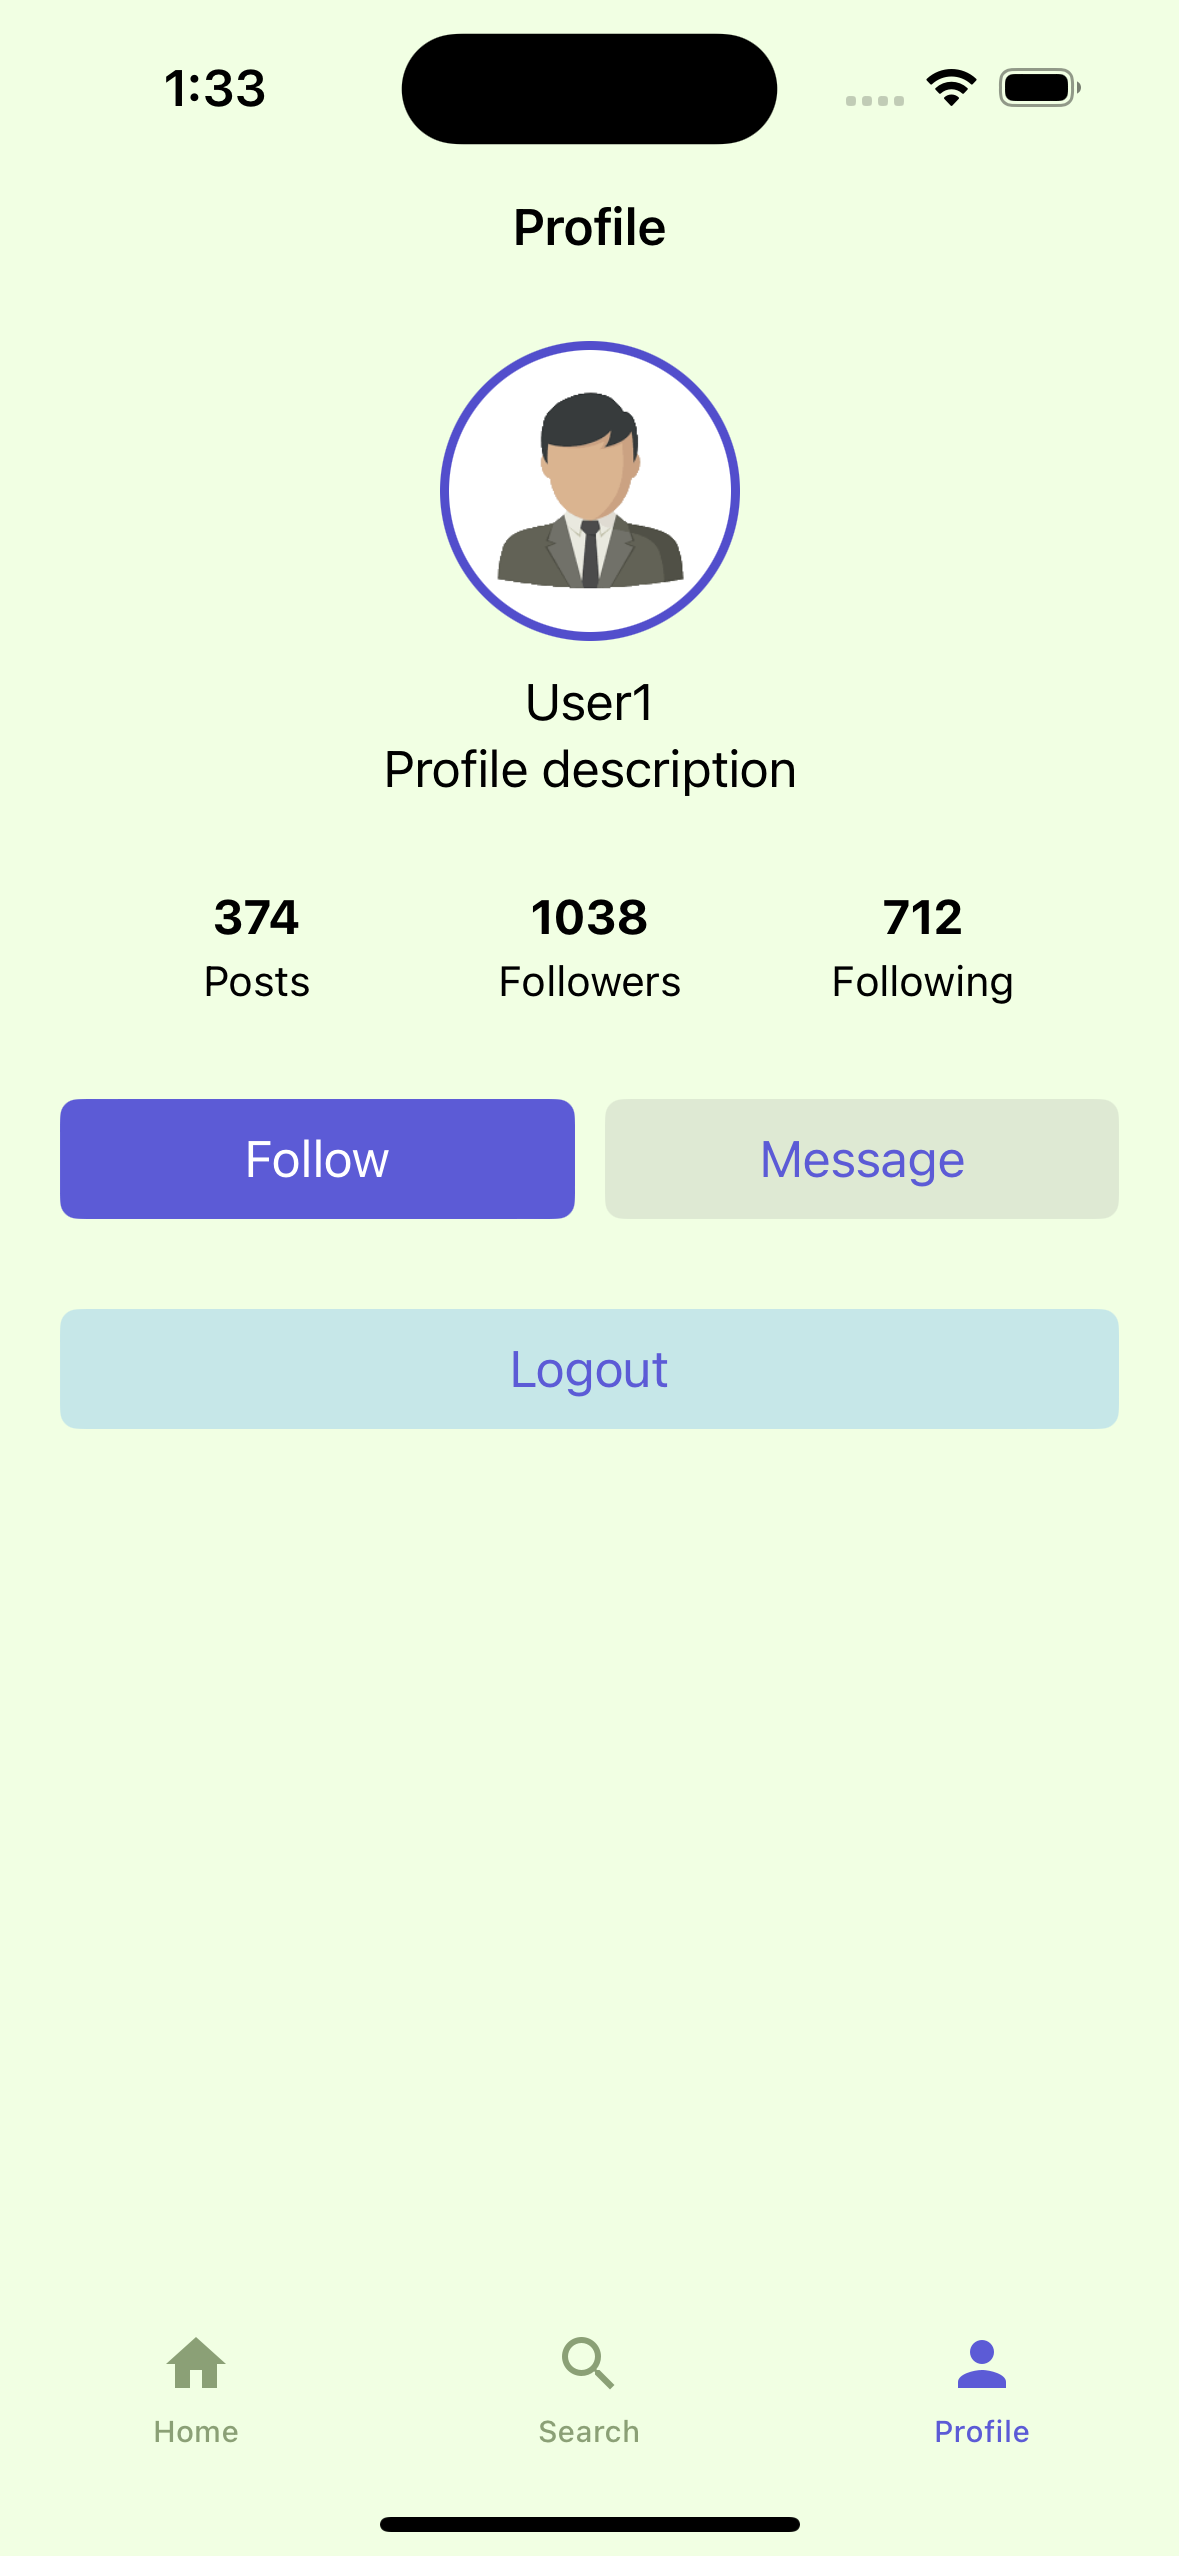
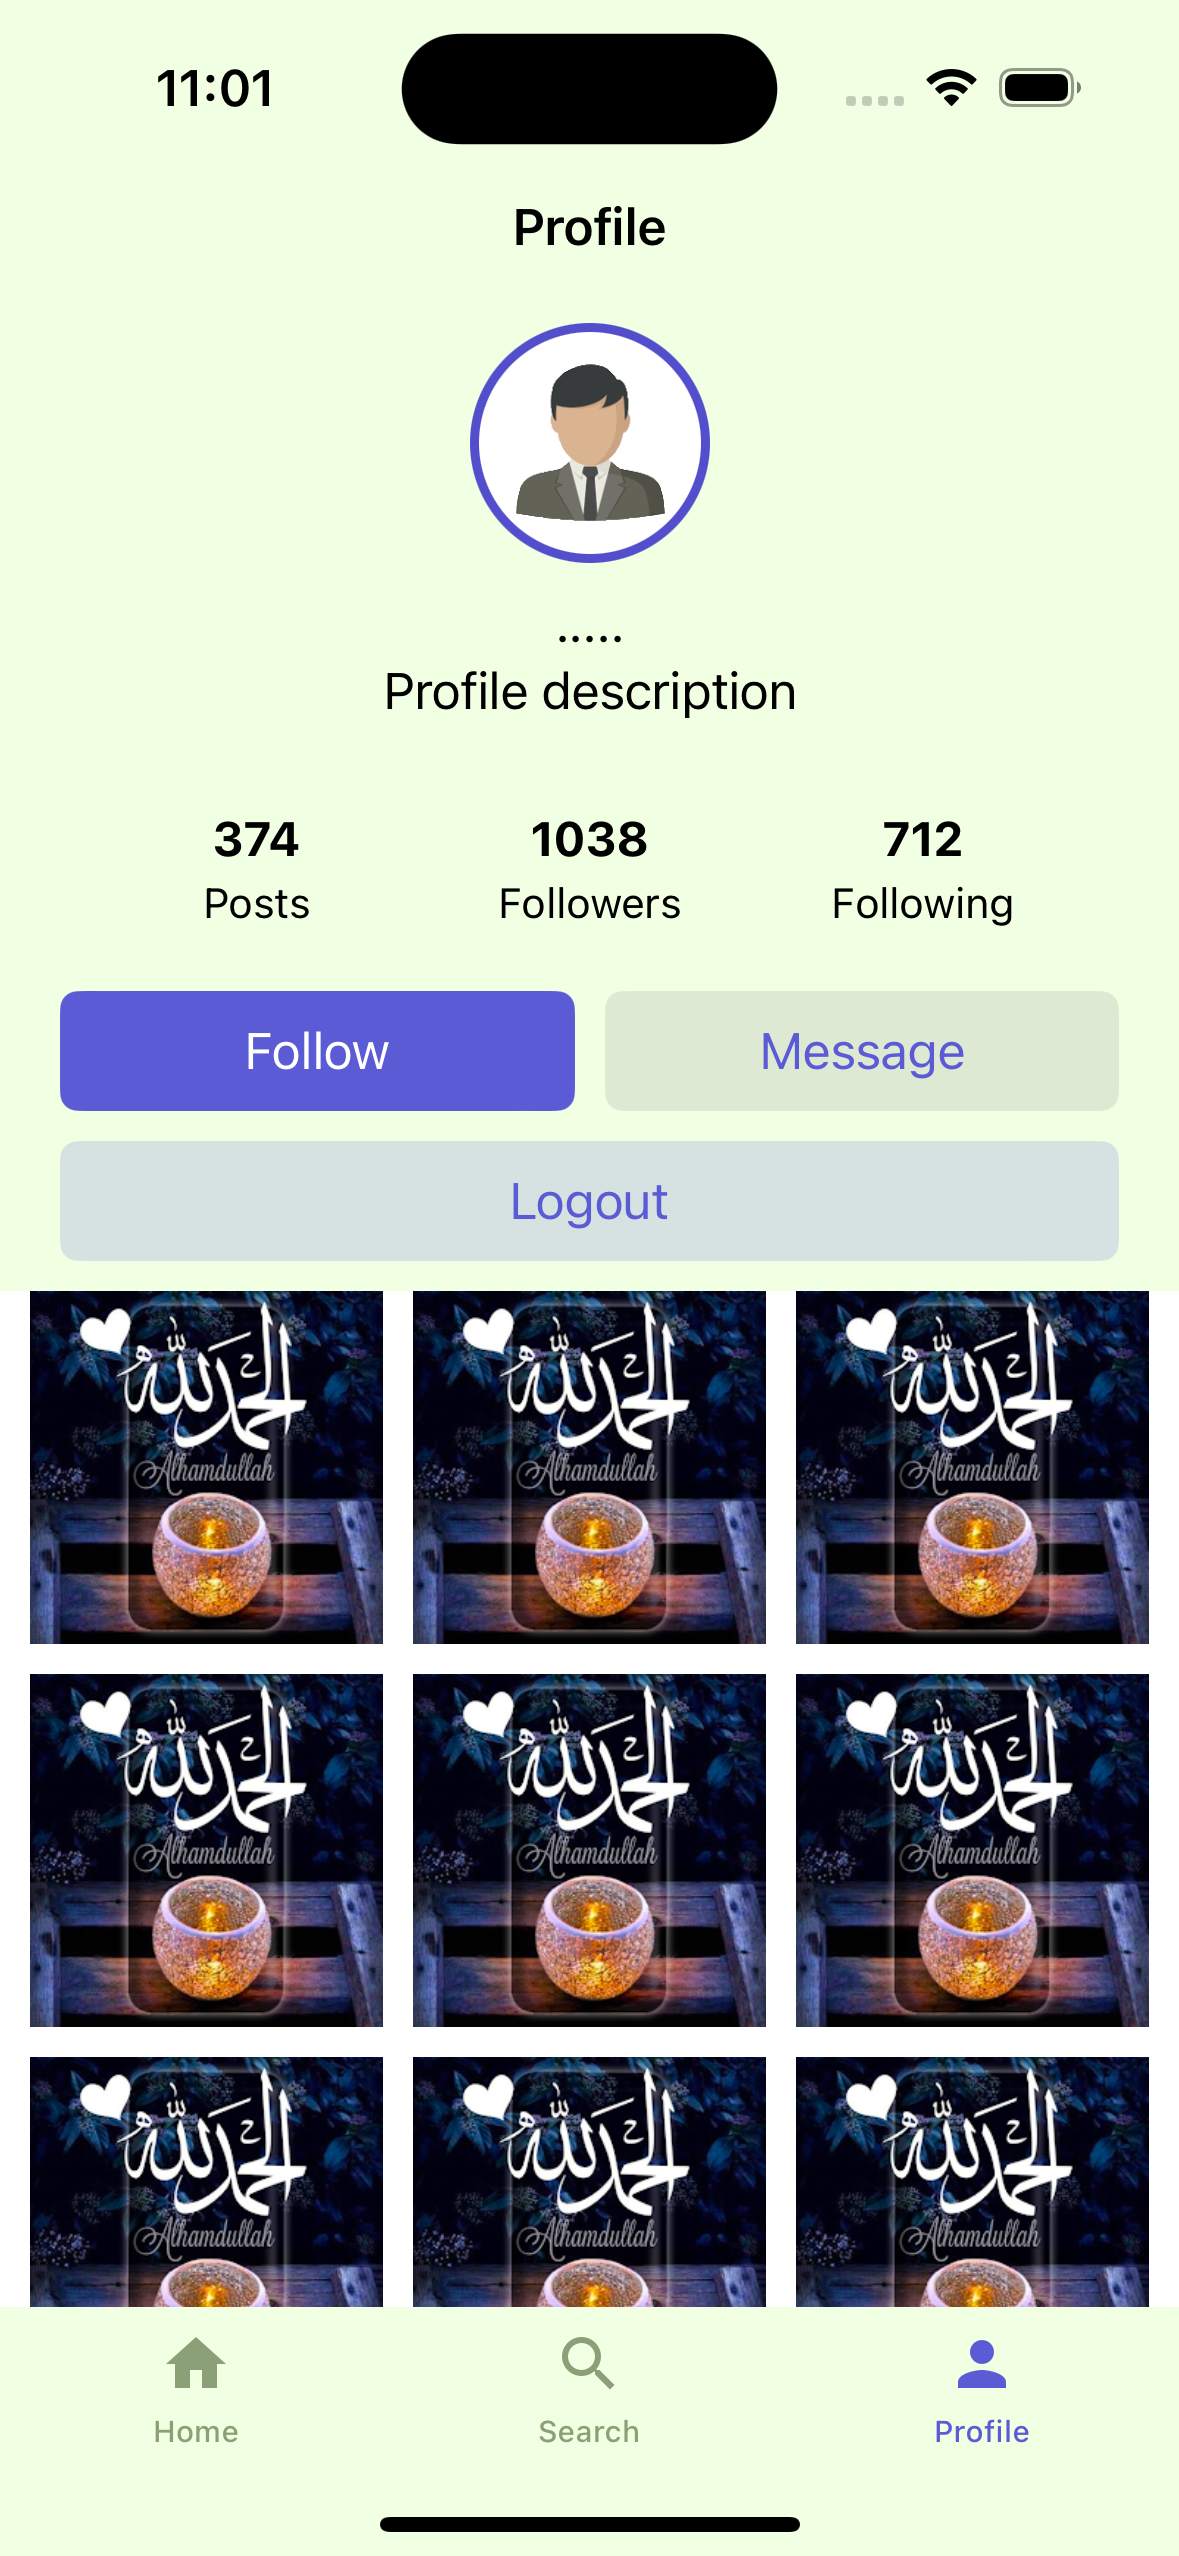
Add CollectionView in Profile and Add PostDetails screen

diff --git a/learnGram/ViewControllers/Extension/ProfileViewControllerExtension.swift b/learnGram/ViewControllers/Extension/ProfileViewControllerExtension.swift
@@ -1,0 +1,52 @@
+//
+//  ProfileViewControllerExtension.swift
+//  learnGram
+//
+//  Created by Yousuf on 4/6/23.
+//
+
+import Foundation
+import UIKit
+
+
+extension ProfileViewController : UICollectionViewDataSource {
+    
+    func collectionView(_ collectionView: UICollectionView, numberOfItemsInSection section: Int) -> Int {
+        return viewModel.imageCollectionItem
+    }
+    
+    func collectionView(_ collectionView: UICollectionView, cellForItemAt indexPath: IndexPath) -> UICollectionViewCell {
+     
+        // This is not working as forceing me to use dequeueReusableCell
+        //let cell = Bundle.main.loadNibNamed(ImageCell.identifierName, owner: self)?.first as! ImageCell
+        //return cell
+     
+        let cell = collectionView.dequeueReusableCell(withReuseIdentifier: ImageCell.identifierName, for: indexPath) as! ImageCell
+        return cell
+    }
+    
+    
+}
+
+
+
+extension ProfileViewController : UICollectionViewDelegate {
+    
+    func collectionView(_ collectionView: UICollectionView, didSelectItemAt indexPath: IndexPath) {
+        print("Clciked at \(indexPath.item)")
+        NavigationManager.pushViewControllerToNavigationController(from: self, with: PostDetailsViewController.storyBoardId)
+    }
+}
+
+
+extension ProfileViewController : UICollectionViewDelegateFlowLayout {
+    
+    func collectionView(_ collectionView: UICollectionView, layout collectionViewLayout: UICollectionViewLayout, sizeForItemAt indexPath: IndexPath) -> CGSize {
+        return CGSize(width: cellSize, height: cellSize)
+    }
+    
+    func collectionView(_ collectionView: UICollectionView, layout collectionViewLayout: UICollectionViewLayout, insetForSectionAt section: Int) -> UIEdgeInsets {
+        return UIEdgeInsets(top: 0.0, left: 10.0, bottom: 10.0, right: 10.0)
+    }
+
+}

diff --git a/learnGram/ViewControllers/ProfileViewController.swift b/learnGram/ViewControllers/ProfileViewController.swift
@@ -14,13 +14,20 @@ class ProfileViewController: UIViewController {
     @IBOutlet private var profileImageView : UIImageView!
     @IBOutlet private var buttonLogout : UIButton!
     @IBOutlet private var labelName : UILabel!
+    @IBOutlet private var collectionView : UICollectionView!
     
     private let navigationManager = NavigationManager()
-    private let viewModel = ProfiViewModel(userRepository: UserLocalRepository())
+    let viewModel = ProfiViewModel(userRepository: UserLocalRepository())
+    var cellSize = 120.0
 
     override func viewDidLoad() {
         super.viewDidLoad()
         
+        let imageCellNib = UINib(nibName: ImageCell.identifierName, bundle: nil)
+        collectionView.register(imageCellNib, forCellWithReuseIdentifier: ImageCell.identifierName)
+        collectionView.setCollectionViewLayout(UICollectionViewFlowLayout.init(), animated: true)
+        
+        calculateCellSize()
         initView()
         
         // Do any additional setup after loading the view.
@@ -34,6 +41,21 @@ class ProfileViewController: UIViewController {
         profileImageView.makeBorder(borderWidth: 3.0, color: borderColor! )
         
         setUserProfile()
+    }
+    
+    func calculateCellSize(){
+        let items = viewModel.itemsInCollectiRow
+        print("Items in row: \(items)")
+        let spacingBetweenItem = 10
+        let horizontalMargin = 10
+        let totalSpacing = horizontalMargin +  (items - 1) * spacingBetweenItem + horizontalMargin
+        print("Total spacing: \(totalSpacing)")
+        
+        let width = self.view.frame.width
+        print("Width: \(width)")
+        self.cellSize = (width - Double(totalSpacing)) / Double(items)
+        print("Cell size: \(self.cellSize)")
+        
     }
     
     @IBAction private func onLogoutAction() {

diff --git a/learnGram/Manager/NavigationManager.swift b/learnGram/Manager/NavigationManager.swift
@@ -41,4 +41,22 @@ class NavigationManager {
         }
     }
     
+   static func pushViewControllerToNavigationController(from currentViewController : UIViewController, with storyboardId: String) {
+        if let navigationController = currentViewController.navigationController {
+            
+            if let viewController = currentViewController.storyboard?.instantiateViewController(withIdentifier: storyboardId) as? UIViewController {
+                print("Push \(String(describing: viewController.self)) in \(String(describing: navigationController.self))")
+                navigationController.pushViewController(viewController, animated: true)
+            } else {
+                print("ViewController not found")
+            }
+            
+        } else {
+            print("NavigationController for \(String(describing: currentViewController.self)) not found")
+        }
+    
+        
+        
+    }
+    
 }

diff --git a/learnGram/ViewControllers/PostDetailsViewController.swift b/learnGram/ViewControllers/PostDetailsViewController.swift
@@ -1,0 +1,37 @@
+//
+//  PostDetailsViewController.swift
+//  learnGram
+//
+//  Created by Yousuf on 4/6/23.
+//
+
+import UIKit
+
+class PostDetailsViewController: UIViewController {
+    
+    static let storyBoardId = "PostDetailsViewController"
+
+    override func viewDidLoad() {
+        super.viewDidLoad()
+
+        updateTitle(title: "Details")
+        
+        // Do any additional setup after loading the view.
+    }
+    
+    func updateTitle(title : String) {
+        self.title = title
+    }
+    
+
+    /*
+    // MARK: - Navigation
+
+    // In a storyboard-based application, you will often want to do a little preparation before navigation
+    override func prepare(for segue: UIStoryboardSegue, sender: Any?) {
+        // Get the new view controller using segue.destination.
+        // Pass the selected object to the new view controller.
+    }
+    */
+
+}

diff --git a/learnGram/CustomCell/ImageCell.swift b/learnGram/CustomCell/ImageCell.swift
@@ -1,0 +1,19 @@
+//
+//  ImageCell.swift
+//  learnGram
+//
+//  Created by Yousuf on 4/6/23.
+//
+
+import UIKit
+
+class ImageCell: UICollectionViewCell {
+    
+    static let identifierName = "ImageCell"
+
+    override func awakeFromNib() {
+        super.awakeFromNib()
+        // Initialization code
+    }
+
+}

diff --git a/learnGram/ViewModels/ProfileViewModel.swift b/learnGram/ViewModels/ProfileViewModel.swift
@@ -10,6 +10,8 @@ import Foundation
 class ProfiViewModel {
     
     private let userRepository : UserRepoProtocol
+    let imageCollectionItem = 30
+    let itemsInCollectiRow = 3
     
     init(userRepository: UserRepoProtocol) {
         self.userRepository = userRepository

diff --git a/README.md b/README.md
@@ -1,6 +1,10 @@
 # learnGram
 Project to learn ios with swift 
 
+To login use:
+email: user1@demo.com
+password: pass1
+
 # 📸Screenshots
 
 <img src="https://github.com/yousufshawon/learnGram/blob/main/screenshot/01_Splash.png" width="300">
@@ -10,4 +14,5 @@ Project to learn ios with swift
 <img src="https://github.com/yousufshawon/learnGram/blob/main/screenshot/05_home.png" width="300">
 <img src="https://github.com/yousufshawon/learnGram/blob/main/screenshot/06_search.png" width="300">
 <img src="https://github.com/yousufshawon/learnGram/blob/main/screenshot/07_profile.png" width="300">
+<img src="https://github.com/yousufshawon/learnGram/blob/main/screenshot/08_post_details.png" width="300">
 
